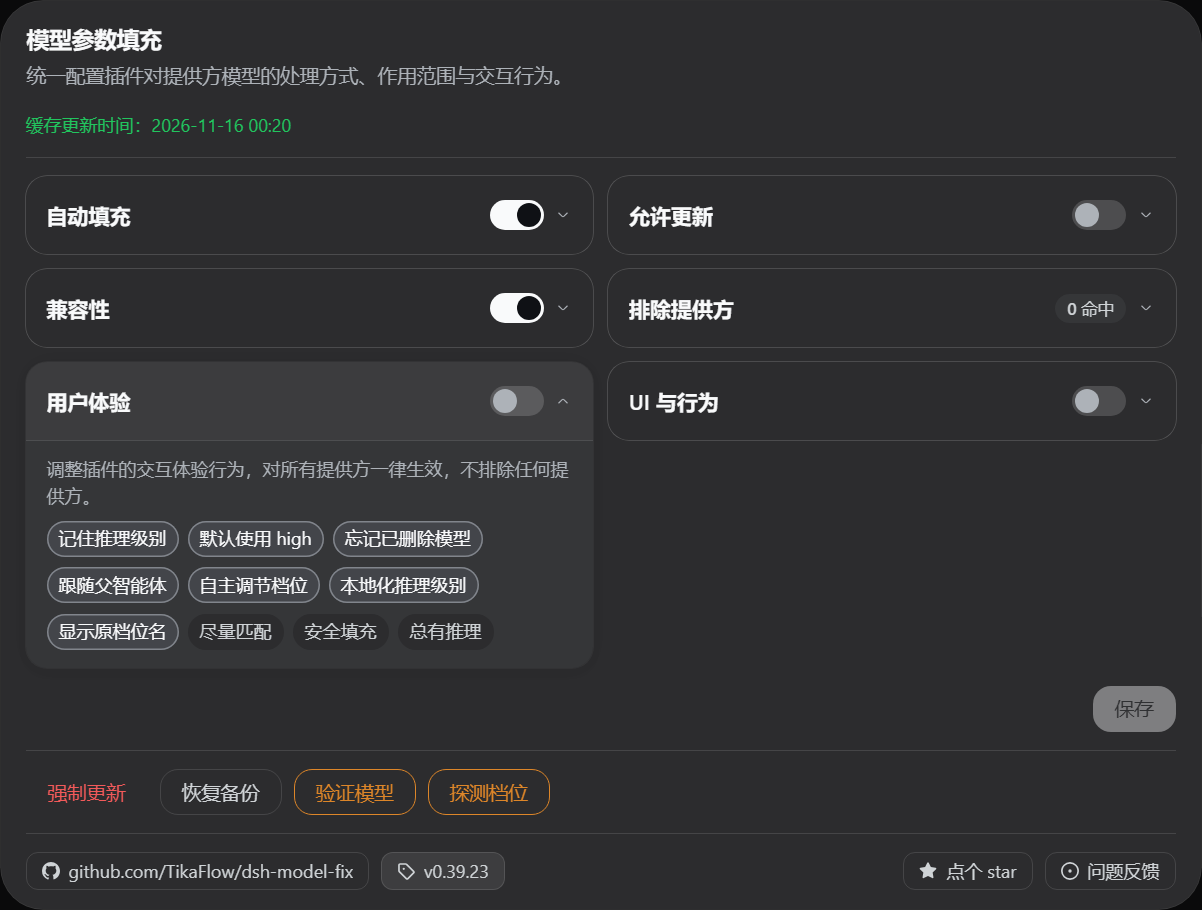
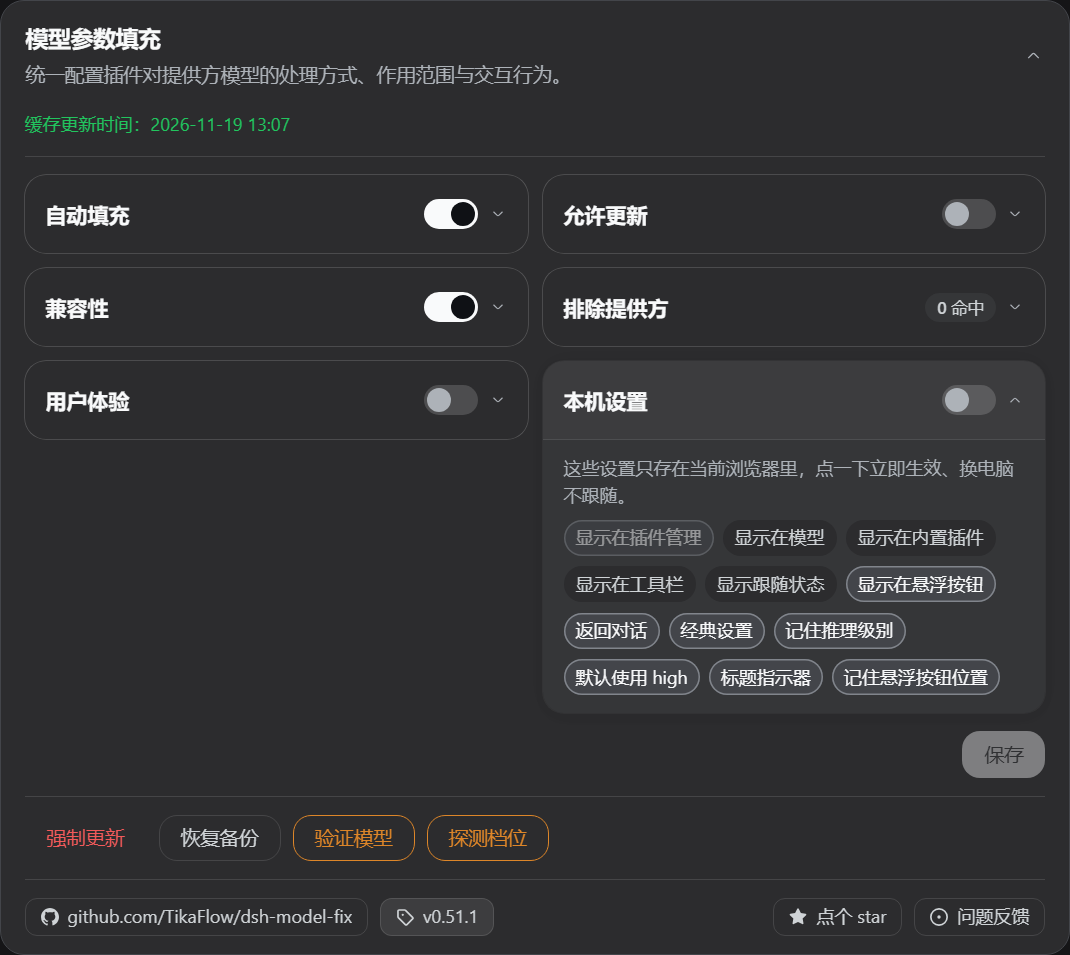
chore: 升级版本号

diff --git a/README.md b/README.md
@@ -78,13 +78,13 @@ UI界面还提供了一些额外功能：
 在 DSH 中，点击「插件」-->「添加插件」，复制以下链接到输入框，完成安装并立即启用：
 
 ```txt
-https://github.com/TikaFlow/dsh-model-fix/releases/download/v0.50.1/dsh-model-fix.tgz
+https://github.com/TikaFlow/dsh-model-fix/releases/download/v0.51.1/dsh-model-fix.tgz
 ```
 
 或在命令行执行：
 
 ```bash
-dsh plugin --profile web add https://github.com/TikaFlow/dsh-model-fix/releases/download/v0.50.1/dsh-model-fix.tgz
+dsh plugin --profile web add https://github.com/TikaFlow/dsh-model-fix/releases/download/v0.51.1/dsh-model-fix.tgz
 ```
 
 ### 方式三：通过 Git 安装（不推荐）
@@ -99,7 +99,7 @@ dsh plugin --profile web add github:TikaFlow/dsh-model-fix
 
 DSH 正在快速迭代，本插件所兼容的 DSH 宿主版本追随较新版本。若插件功能异常，请检查 DSH 版本是否满足插件依赖版本。
 
-支持范围：DSH `0.2.1-rc.2` ~ `0.2.2-rc.3`
+支持范围：DSH `0.2.1-rc.2` ~ `0.2.2-rc.5`
 
 ## 使用说明
 
